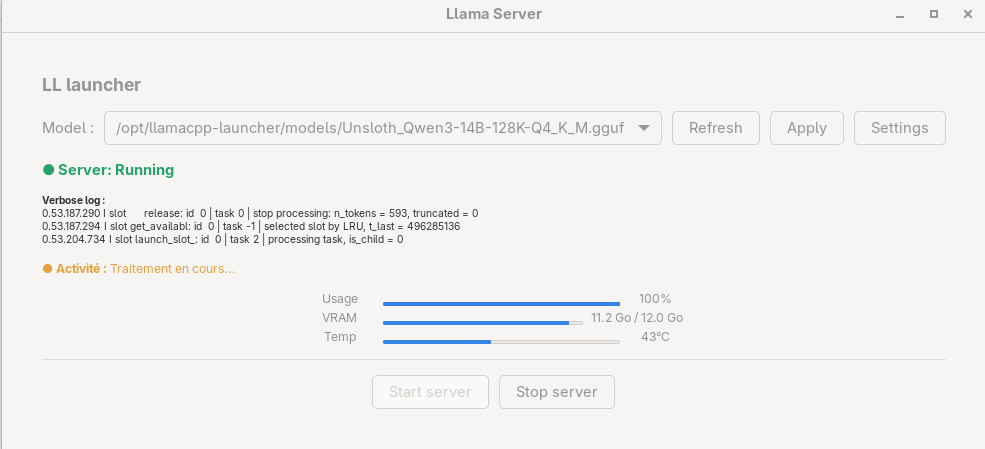
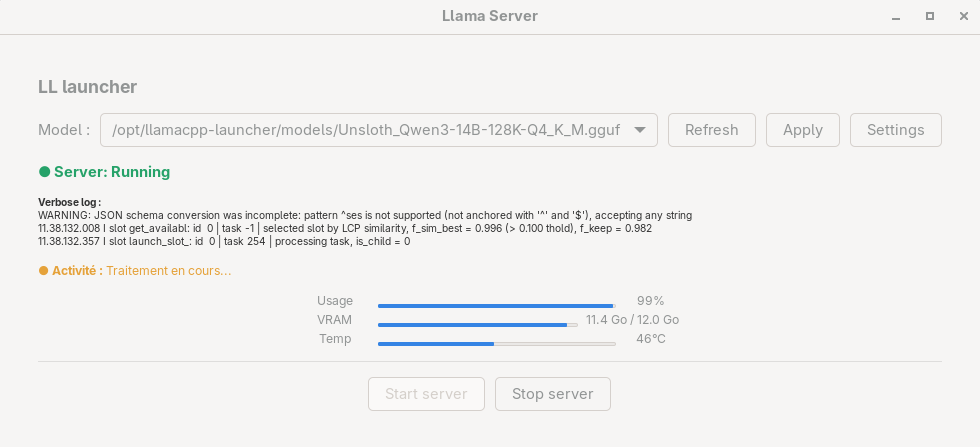
modify readme

diff --git a/README.md b/README.md
@@ -2,7 +2,9 @@
 
 A standalone GTK launcher for the `llama.cpp` server (`llama-server`).
 
-![Llama-launcher](/image_readme.png)
+<p align="center">
+  <img src="/image_readme.png" width="50%">
+</p>
 
 **Developed with the help of artificial intelligence** — This project was developed with AI assistance.
 
